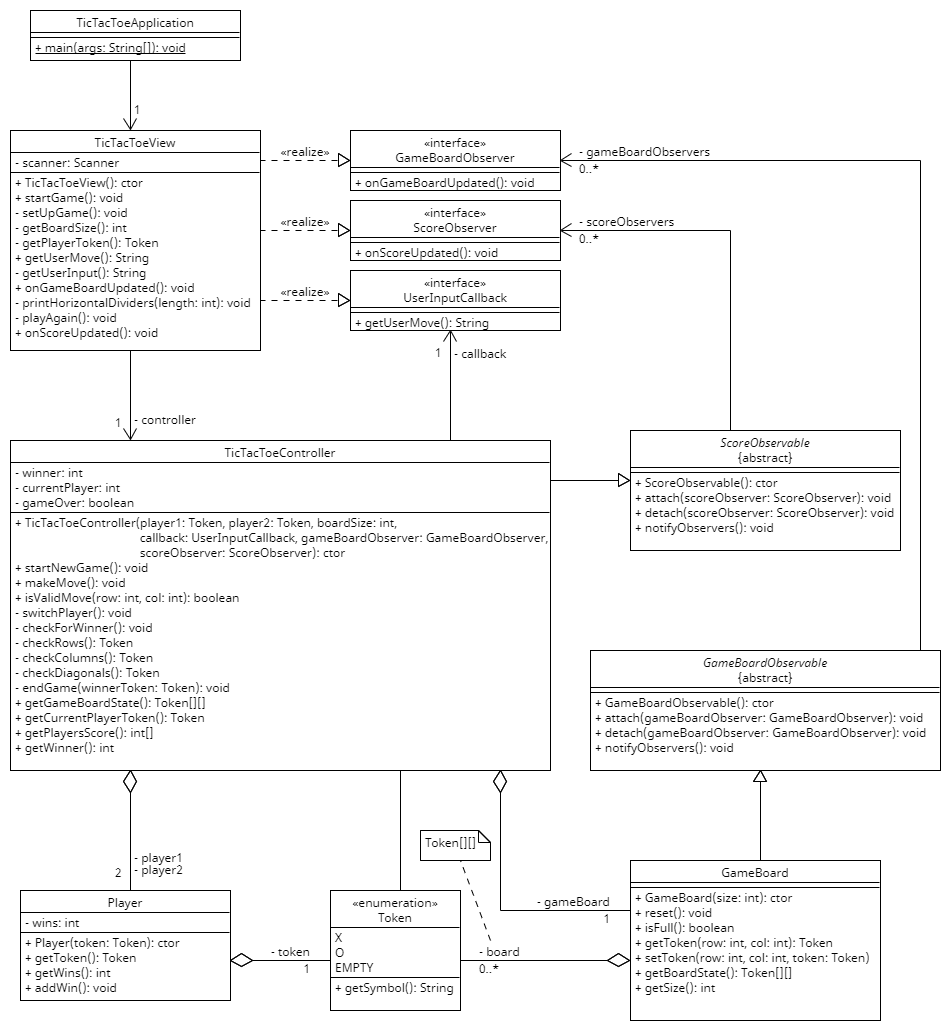
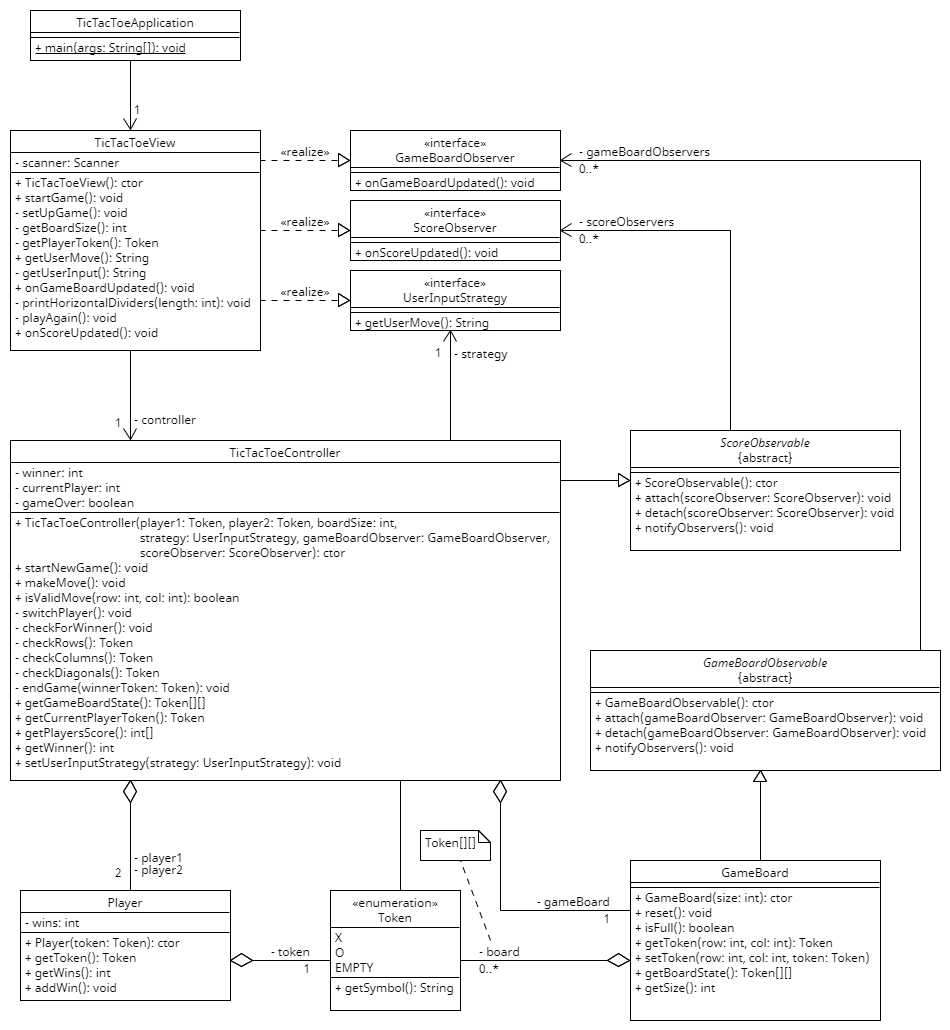
Changed naming of the UserInputCallback

diff --git a/src/main/java/is/hi/hbv202g/tictactoe/controller/TicTacToeController.java b/src/main/java/is/hi/hbv202g/tictactoe/controller/TicTacToeController.java
@@ -2,7 +2,7 @@ package is.hi.hbv202g.tictactoe.controller;
 
 import is.hi.hbv202g.tictactoe.model.GameBoard;
 import is.hi.hbv202g.tictactoe.model.Player;
-import is.hi.hbv202g.tictactoe.model.UserInputCallback;
+import is.hi.hbv202g.tictactoe.model.UserInputStrategy;
 import is.hi.hbv202g.tictactoe.model.Token;
 import is.hi.hbv202g.tictactoe.model.observer.GameBoardObserver;
 import is.hi.hbv202g.tictactoe.model.observer.ScoreObservable;
@@ -23,7 +23,7 @@ public class TicTacToeController extends ScoreObservable
     private int currentPlayer = 1;
     private boolean gameOver  = false;
 
-    private UserInputCallback callback;
+    private UserInputStrategy strategy;
 
     /**
      * Construct a new TicTacToeController.
@@ -31,17 +31,17 @@ public class TicTacToeController extends ScoreObservable
      * @param player1                The game token for Player 1.
      * @param player2                The game token for Player 2.
      * @param boardSize              The size of the game board.
-     * @param callback               Callback to get User Input from View.
-     * @param gameBoardObserver The observer for the game board.
+     * @param strategy               Callback to get User Input from View.
+     * @param gameBoardObserver      The observer for the game board.
      * @param scoreObserver          The observer for the score.
      */
-    public TicTacToeController(Token player1, Token player2, int boardSize, UserInputCallback callback, GameBoardObserver gameBoardObserver, ScoreObserver scoreObserver)
+    public TicTacToeController(Token player1, Token player2, int boardSize, UserInputStrategy strategy, GameBoardObserver gameBoardObserver, ScoreObserver scoreObserver)
     {
         this.player1 = new Player(player1);
         this.player2 = new Player(player2);
         this.gameBoard = new GameBoard(boardSize);
 
-        this.callback = callback;
+        this.strategy = strategy;
 
         if (gameBoardObserver != null)
             this.gameBoard.attach(gameBoardObserver);
@@ -61,7 +61,7 @@ public class TicTacToeController extends ScoreObservable
 
         while (!gameOver)
         {
-            String move = callback.getUserMove();
+            String move = strategy.getUserMove();
             makeMove(move);
         }
     }
@@ -300,5 +300,15 @@ public class TicTacToeController extends ScoreObservable
     public int getWinner()
     {
         return winner;
+    }
+
+    /**
+     * Set the User Input Strategy for the controller.
+     *
+     * @param strategy The User Input Strategy to use.
+     */
+    public void setUserInputStrategy(UserInputStrategy strategy)
+    {
+        this.strategy = strategy;
     }
 }

diff --git a/src/main/java/is/hi/hbv202g/tictactoe/view/TicTacToeView.java b/src/main/java/is/hi/hbv202g/tictactoe/view/TicTacToeView.java
@@ -1,7 +1,7 @@
 package is.hi.hbv202g.tictactoe.view;
 
 import is.hi.hbv202g.tictactoe.controller.TicTacToeController;
-import is.hi.hbv202g.tictactoe.model.UserInputCallback;
+import is.hi.hbv202g.tictactoe.model.UserInputStrategy;
 import is.hi.hbv202g.tictactoe.model.Token;
 import is.hi.hbv202g.tictactoe.model.observer.GameBoardObserver;
 import is.hi.hbv202g.tictactoe.model.observer.ScoreObserver;
@@ -11,7 +11,7 @@ import java.util.Scanner;
 /**
  * A view for a Tic Tac Toe game.
  */
-public class TicTacToeView implements GameBoardObserver, ScoreObserver, UserInputCallback
+public class TicTacToeView implements GameBoardObserver, ScoreObserver, UserInputStrategy
 {
     private TicTacToeController controller;
     private Scanner scanner;

diff --git a/src/main/java/is/hi/hbv202g/tictactoe/model/UserInputStrategy.java b/src/main/java/is/hi/hbv202g/tictactoe/model/UserInputStrategy.java
@@ -1,9 +1,9 @@
 package is.hi.hbv202g.tictactoe.model;
 
 /**
- * Interface for user input callbacks.
+ * Interface for user input strategies.
  */
-public interface UserInputCallback
+public interface UserInputStrategy
 {
     /**
      * Get the user's next move.

diff --git a/src/site/markdown/Design.md b/src/site/markdown/Design.md
@@ -10,5 +10,5 @@ The project uses the Observer pattern twice, once for the state of the GameBoard
  * The GameBoard extends the GameBoardObservable, and TicTacToeView implements the GameBoardObserver.
  * The TicTacToeController extends the ScoreObservable, and TicTacToeView implements the ScoreObserver.
 
-The project also uses the Strategy pattern, where the TicTacToeController has a UserInputCallback interface that is implemented by the TicTacToeView.
-* This was used to decouple the Controller from the View.
+The project also uses the Strategy pattern, where the TicTacToeController has a UserInputStrategy interface that is implemented by the TicTacToeView.
+* This was used to decouple the Controller from the View, and enable multiple implementations of the UserInputStrategy.
